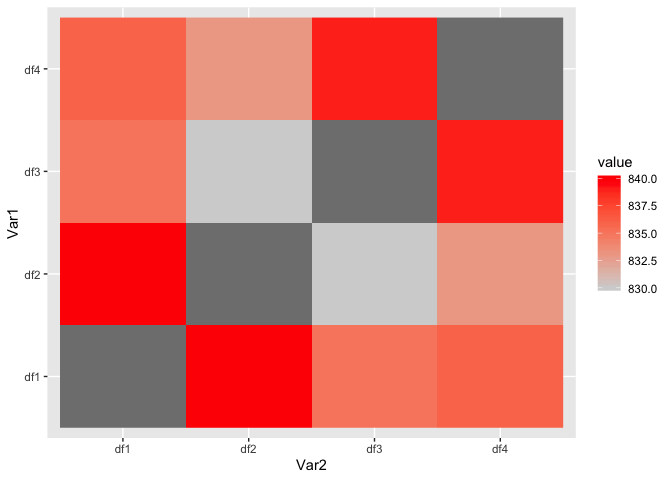
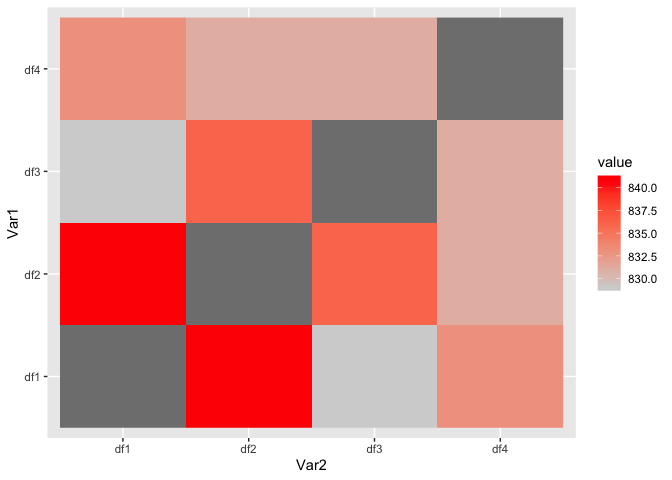
change package name part 2

diff --git a/README.md b/README.md
@@ -48,10 +48,10 @@ m <- pmapply(df1 = df1$key,
              FUN = si)
 m
 #>      df1  df2  df3  df4
-#> df1 1000  840  835  836
-#> df2  840 1000  830  833
-#> df3  835  830 1000  839
-#> df4  836  833  839 1000
+#> df1 1000  841  829  833
+#> df2  841 1000  836  831
+#> df3  829  836 1000  831
+#> df4  833  831  831 1000
 ```
 
 The resulting matrix shows the total intersections between each
@@ -61,8 +61,8 @@ Get the minimum and maximum values with `get_min_max_combos`:
 
 ``` r
 get_minmax_combos(m)
-#> | Maximum combination:  df2 - df1      |  Value:  840 
-#> | Minimum combination:  df3 - df2      |  Value:  830
+#> | Maximum combination:  df2 - df1      |  Value:  841 
+#> | Minimum combination:  df3 - df1      |  Value:  829
 ```
 
 Or plot the heatmap with `combo_heatmap`:
